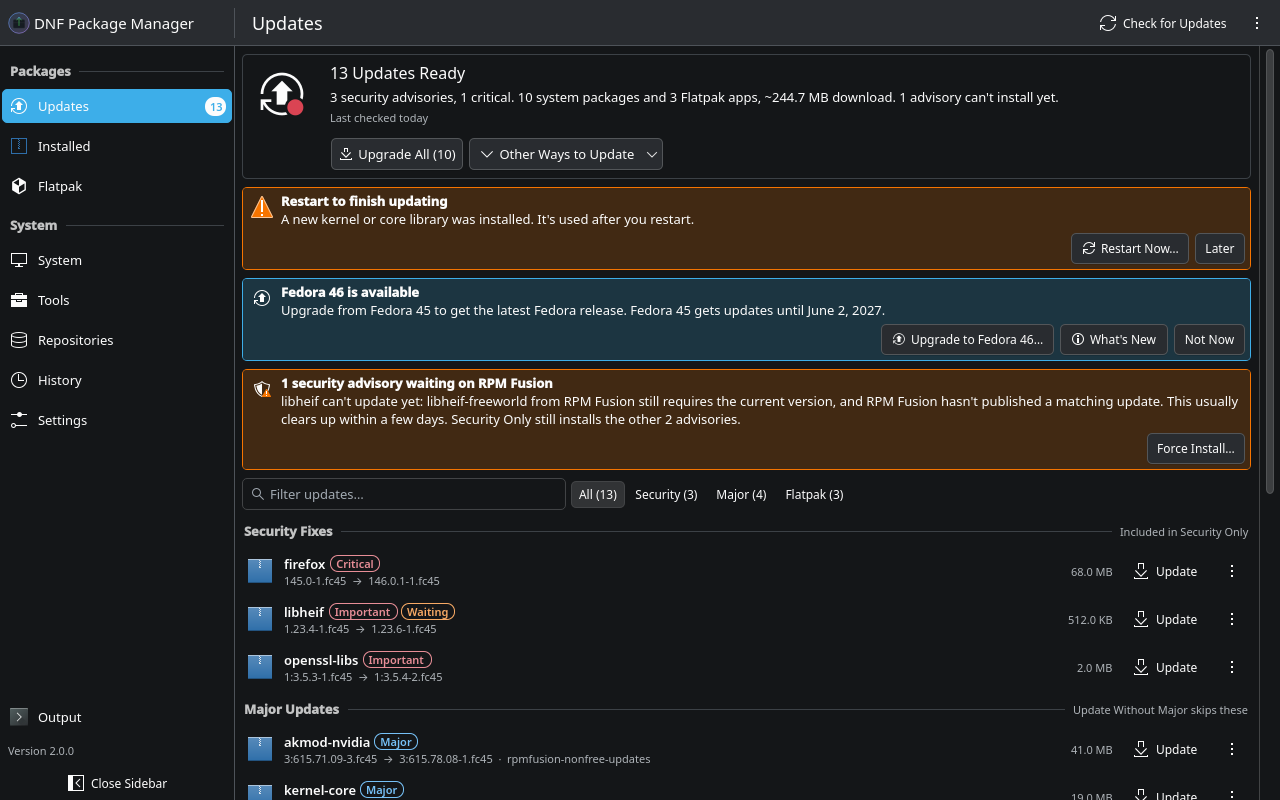
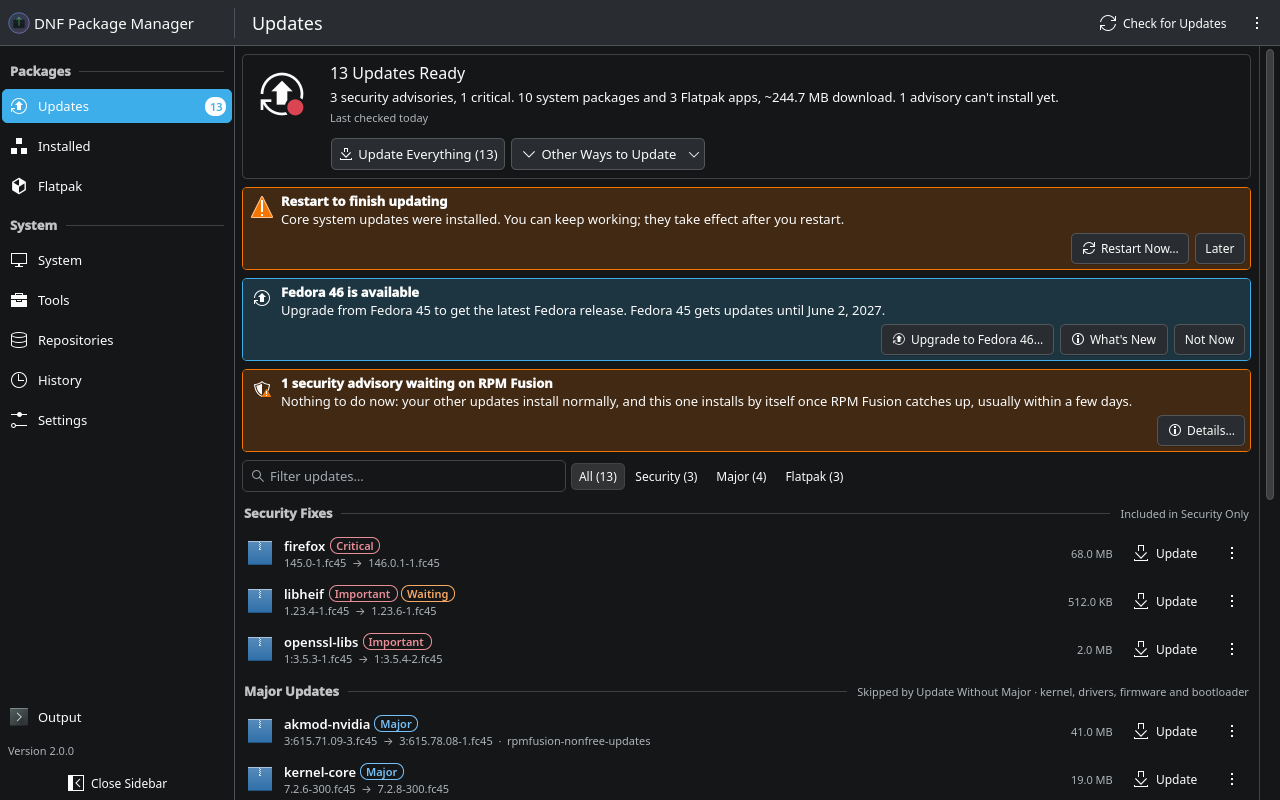
fix(ui): keep the Major Updates hint inside a narrow list column
With details open the hint ran past the column's edge. It now shrinks and
elides, and leads with what matters ("Skipped by Update Without Major") so
a shortened hint still reads. README screenshots refreshed.

diff --git a/src/dnf_gui/ui/qml/UpdatesPage.qml b/src/dnf_gui/ui/qml/UpdatesPage.qml
@@ -114,9 +114,16 @@ Kirigami.ScrollablePage {
             text: section
             QQC2.Label {
                 text: section === "Security Fixes" ? "Included in Security Only"
-                    : section === "Major Updates" ? "Kernel, drivers, firmware and bootloader · Update Without Major skips these"
+                    : section === "Major Updates" ? "Skipped by Update Without Major · kernel, drivers, firmware and bootloader"
                     : ""
                 visible: text !== "" && !root.compact
+                // Shrinks and elides in a narrow column instead of running
+                // past its edge; the key phrase comes first.
+                Layout.fillWidth: true
+                Layout.minimumWidth: 0
+                Layout.maximumWidth: Math.ceil(implicitWidth) + 2  // rounding slack
+                horizontalAlignment: Text.AlignRight
+                elide: Text.ElideRight
                 font: Kirigami.Theme.smallFont
                 color: Kirigami.ColorUtils.linearInterpolation(Kirigami.Theme.textColor, Kirigami.Theme.backgroundColor, 0.3)
             }
